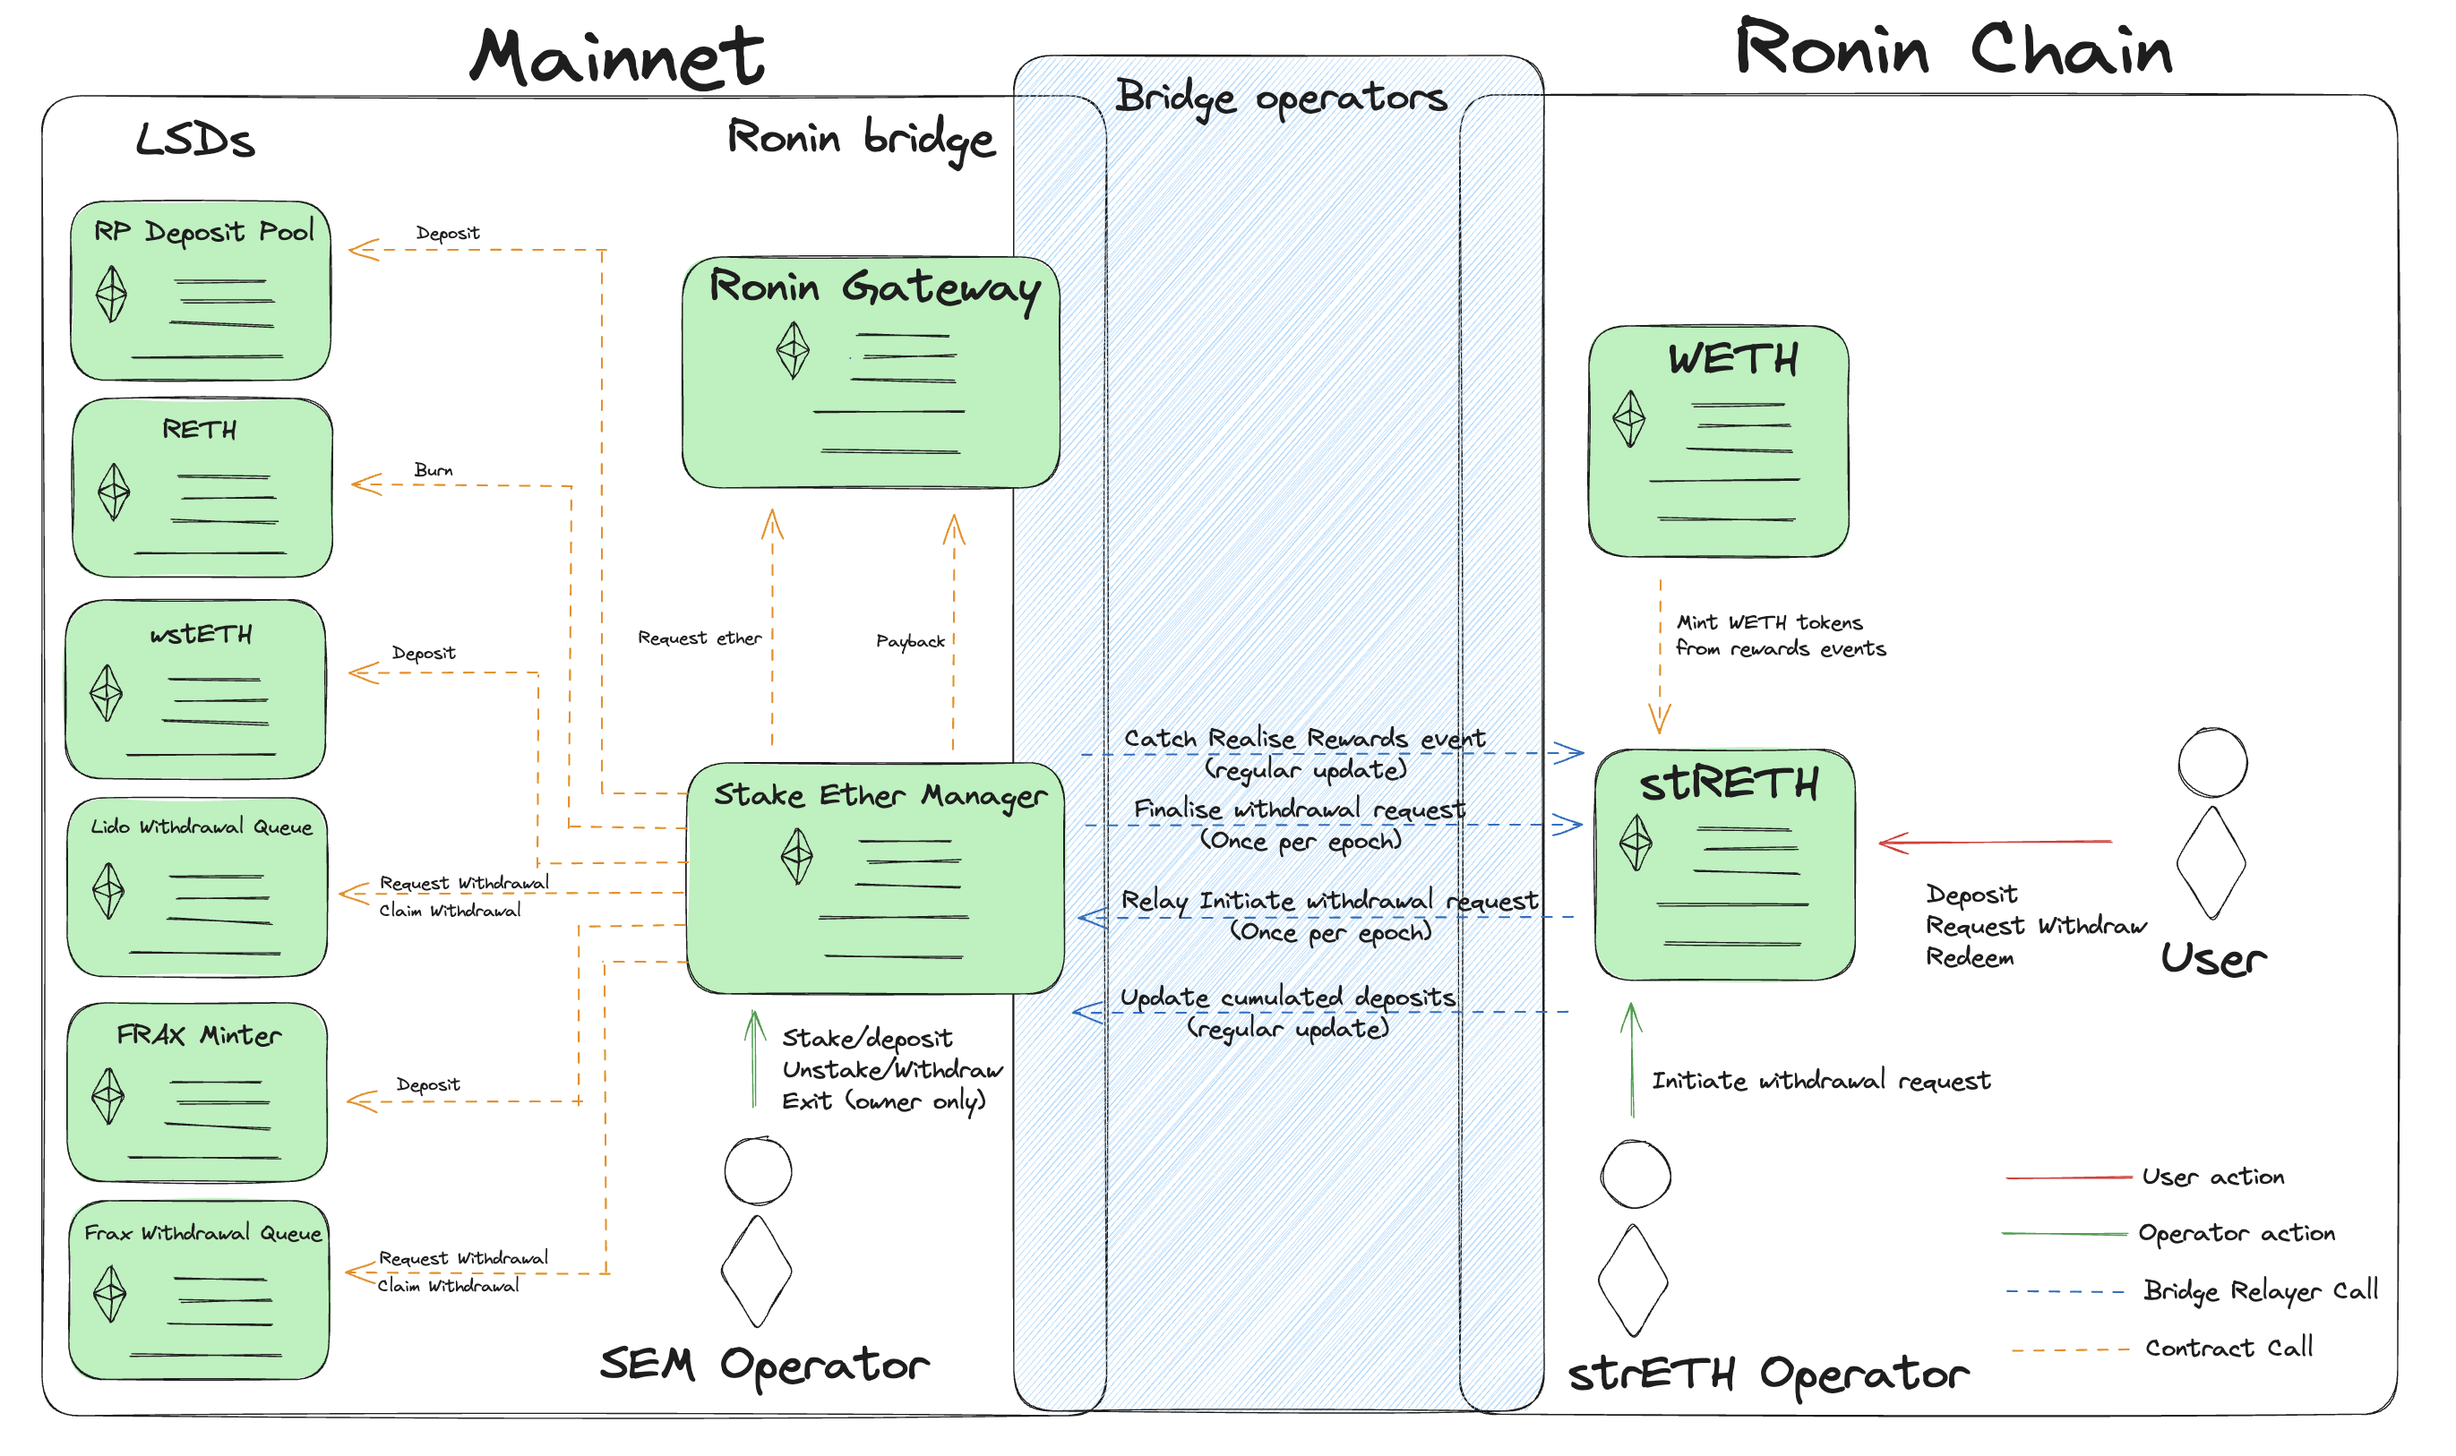
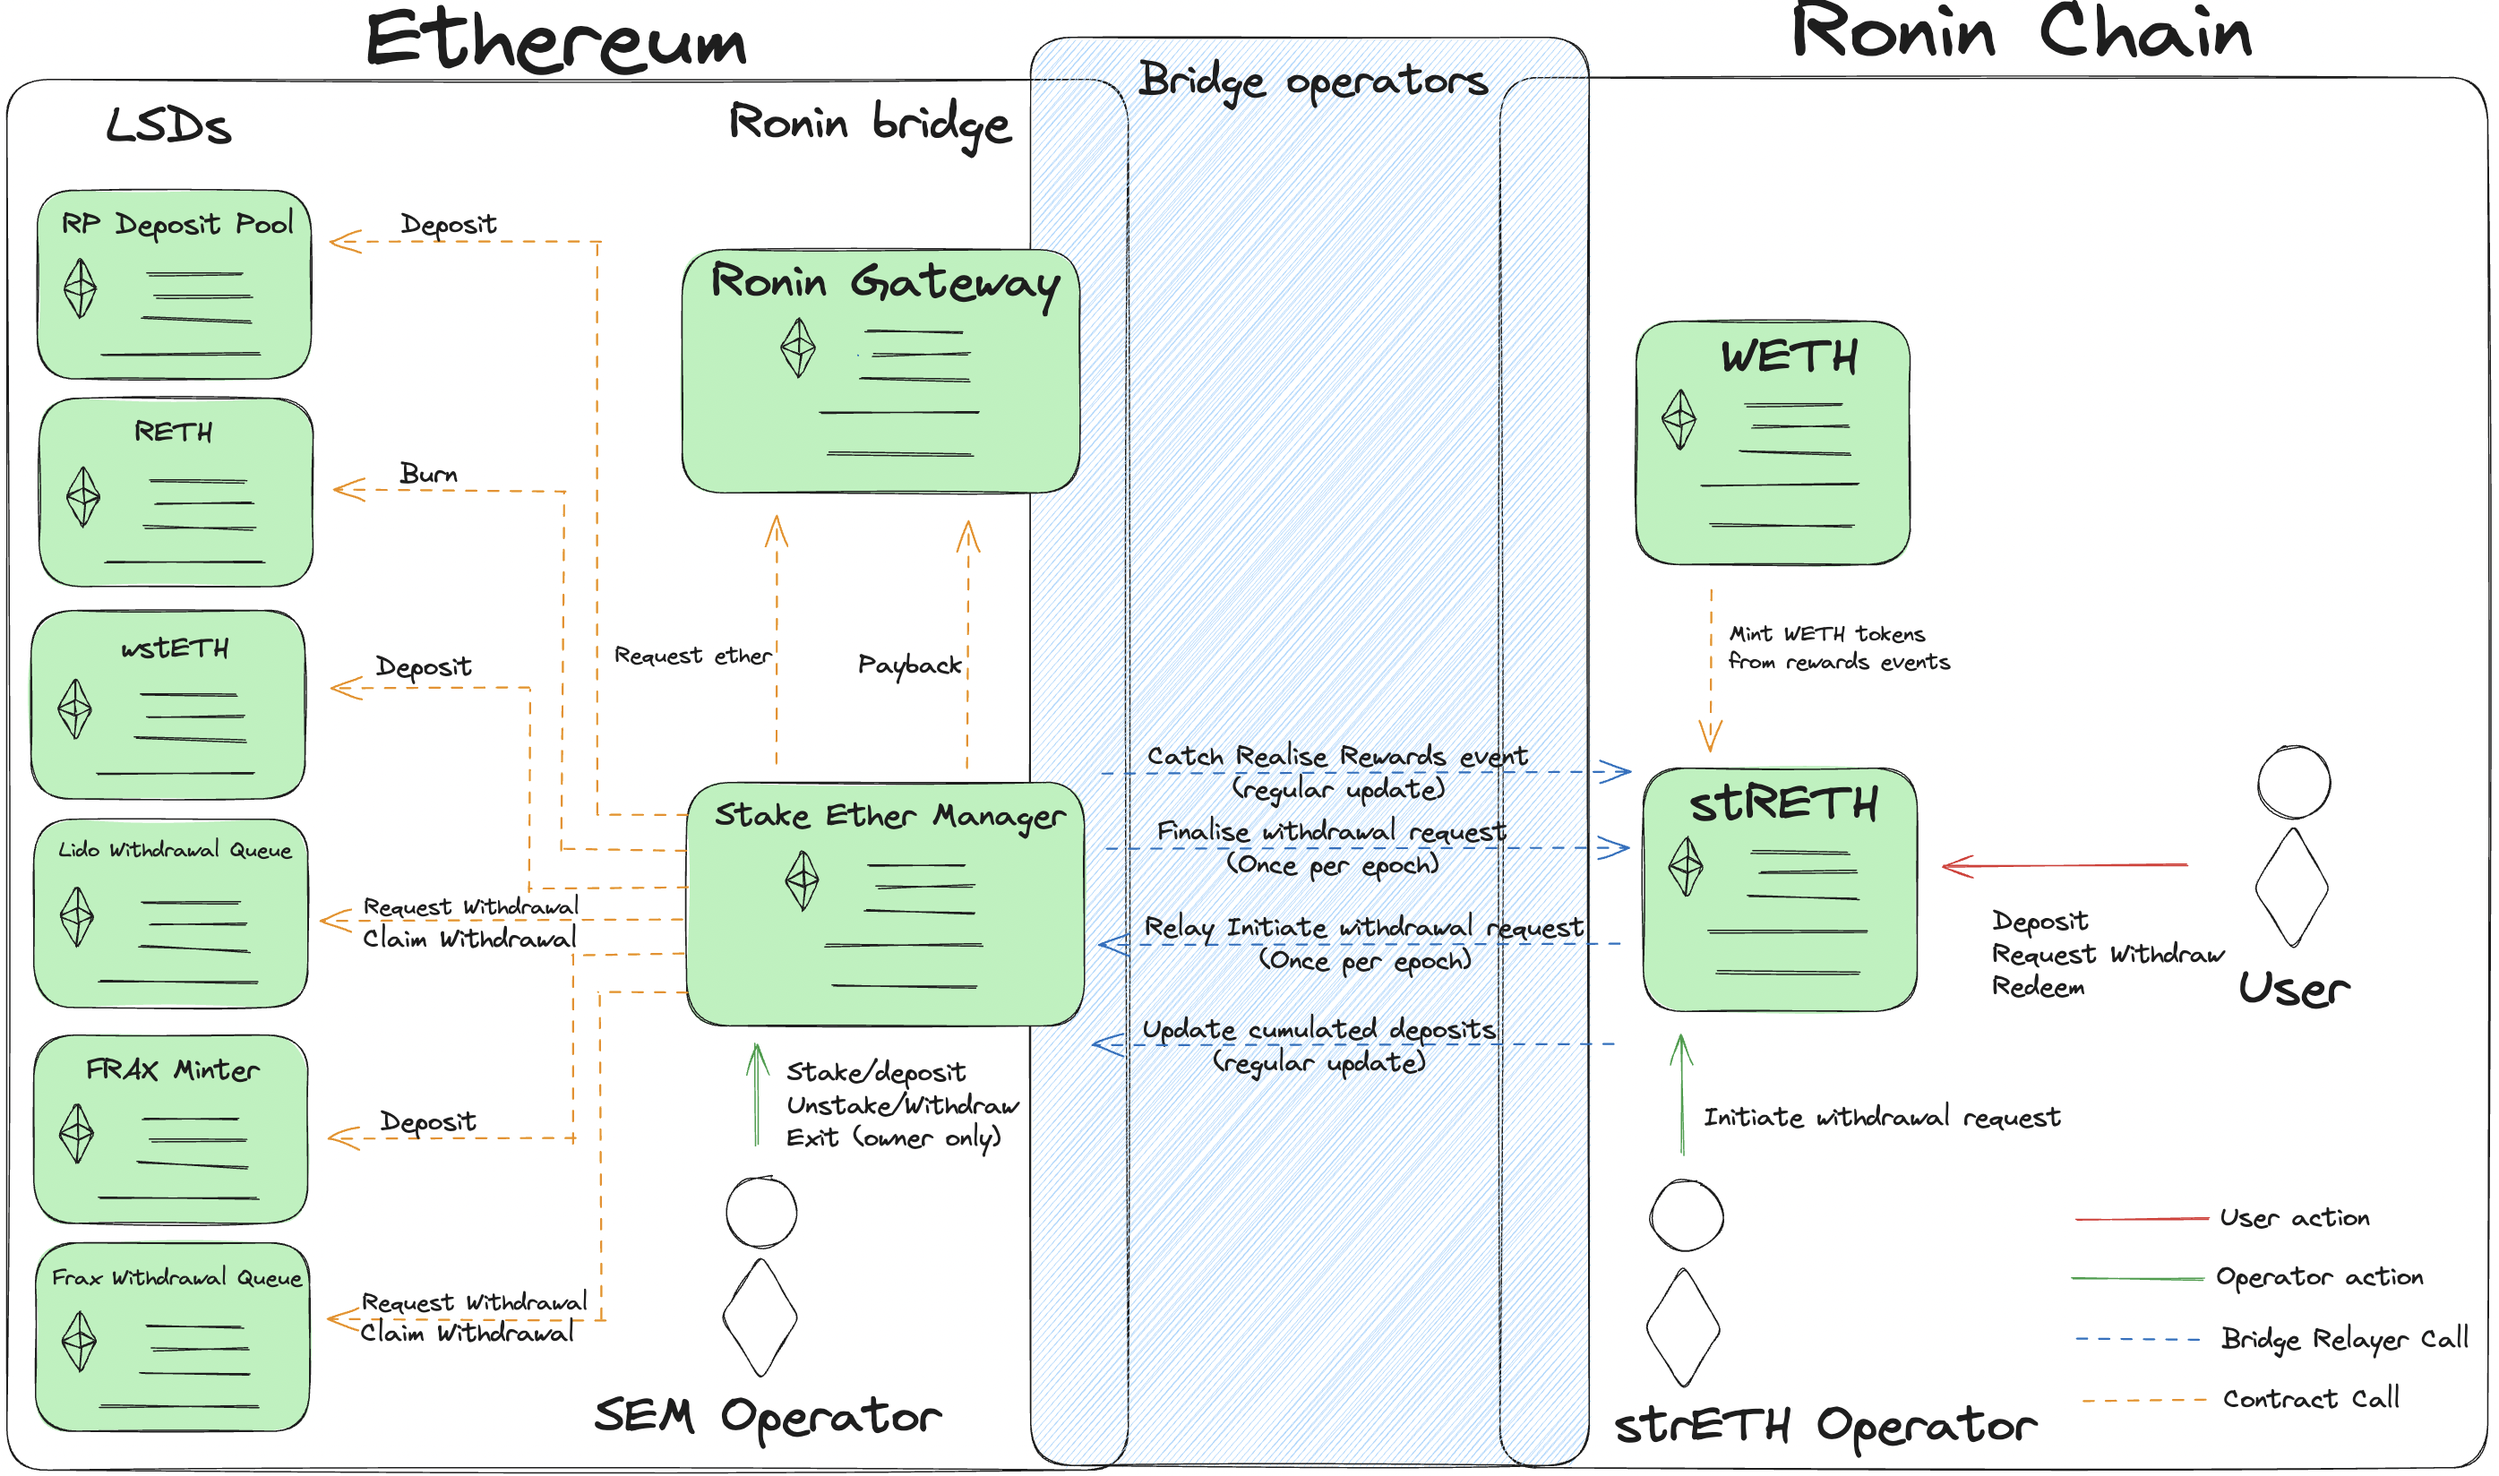
Remove mainnet wording

diff --git a/README.md b/README.md
@@ -42,7 +42,7 @@ A final requirement is necessary in the form of task required to be performed by
 - Cyclic update of the required Ether to be withdrawn every Withdrawal period from the strETH contract on Ronin network to the SEM module on Ethereum
 - Cyclic update of the finalisation of the Withdrawal period from the SEM module on Ethereum to the strETH contract on Ronin network
 
-Operators will need to reach quorum to transfer information in between Ronin Network and Ethereum Mainnet, acting as oracles.
+Operators will need to reach quorum to transfer information in between Ronin Network and Ethereum, acting as oracles.
 
 A withdrawal cycle will occur like this:
 1. During 7 days, users will be able to request their strETH to be redeemed. This action will lock their tokens into the contract and cannot be undone.
@@ -82,14 +82,14 @@ I would also like to discuss the strength of having the SEM either on Ethereum o
 - The AXS treasury holds a considerable amount of ether, having the SEM on ronin would not allow this ether to be staked into an LSD
 - The amount of returned LSD would be lower than initially deposited. To understand this, follow this example: Alice deposits 100 wstETH into the the ronin gateway that are worth 100 eth. Lets assume wstETH returns are 4% apy. Given that some of the returns will be redirected to the treasury and operators, her final APY will be lower than 4%, lets say it is 3.75%. After one year, Alice decides to withdraw back her wstETH. 100 wstETH are now worth 104 ether but because ronin network takes a share, her final amount would be 103.75 ether which equates to returning 99.76 wstETH back. Psychologically, this might look negative to holders.
 
-**Mainnet Pros**
+**Ethereum Pros**
 - Captures the majority of users as ~72% of ether is not staked
 - The flow of obtaining strETH is much simpler. Deposit ether on gateway, deposit WEHT for strETH on ronin.
 - Any existing WETH holder on ronin can deposit their WETH into strETH.
 - AXS treasury can deposit their WETH and benefit the ecosystem with even more incetivised gameplay.
 - Redeeming strETH will signify a higher returned amount of WEHT, psycholigically making the user feel they've earned something.
 
-**Mainnet cons**
+**Ethereum cons**
 - More security risks due to needed to upgrade the Ethereum gateway and making sure the SEM handles deposits, withdraws and exits of LSDs in a very secure way, without any way of loosing funds.
 - More work needed on the Bridge operator software to capture all the events needed to the system to function.
 - Withdrawals will be handled in cycles of multiple days to give enough time to withdraw from LSDs if needed.
